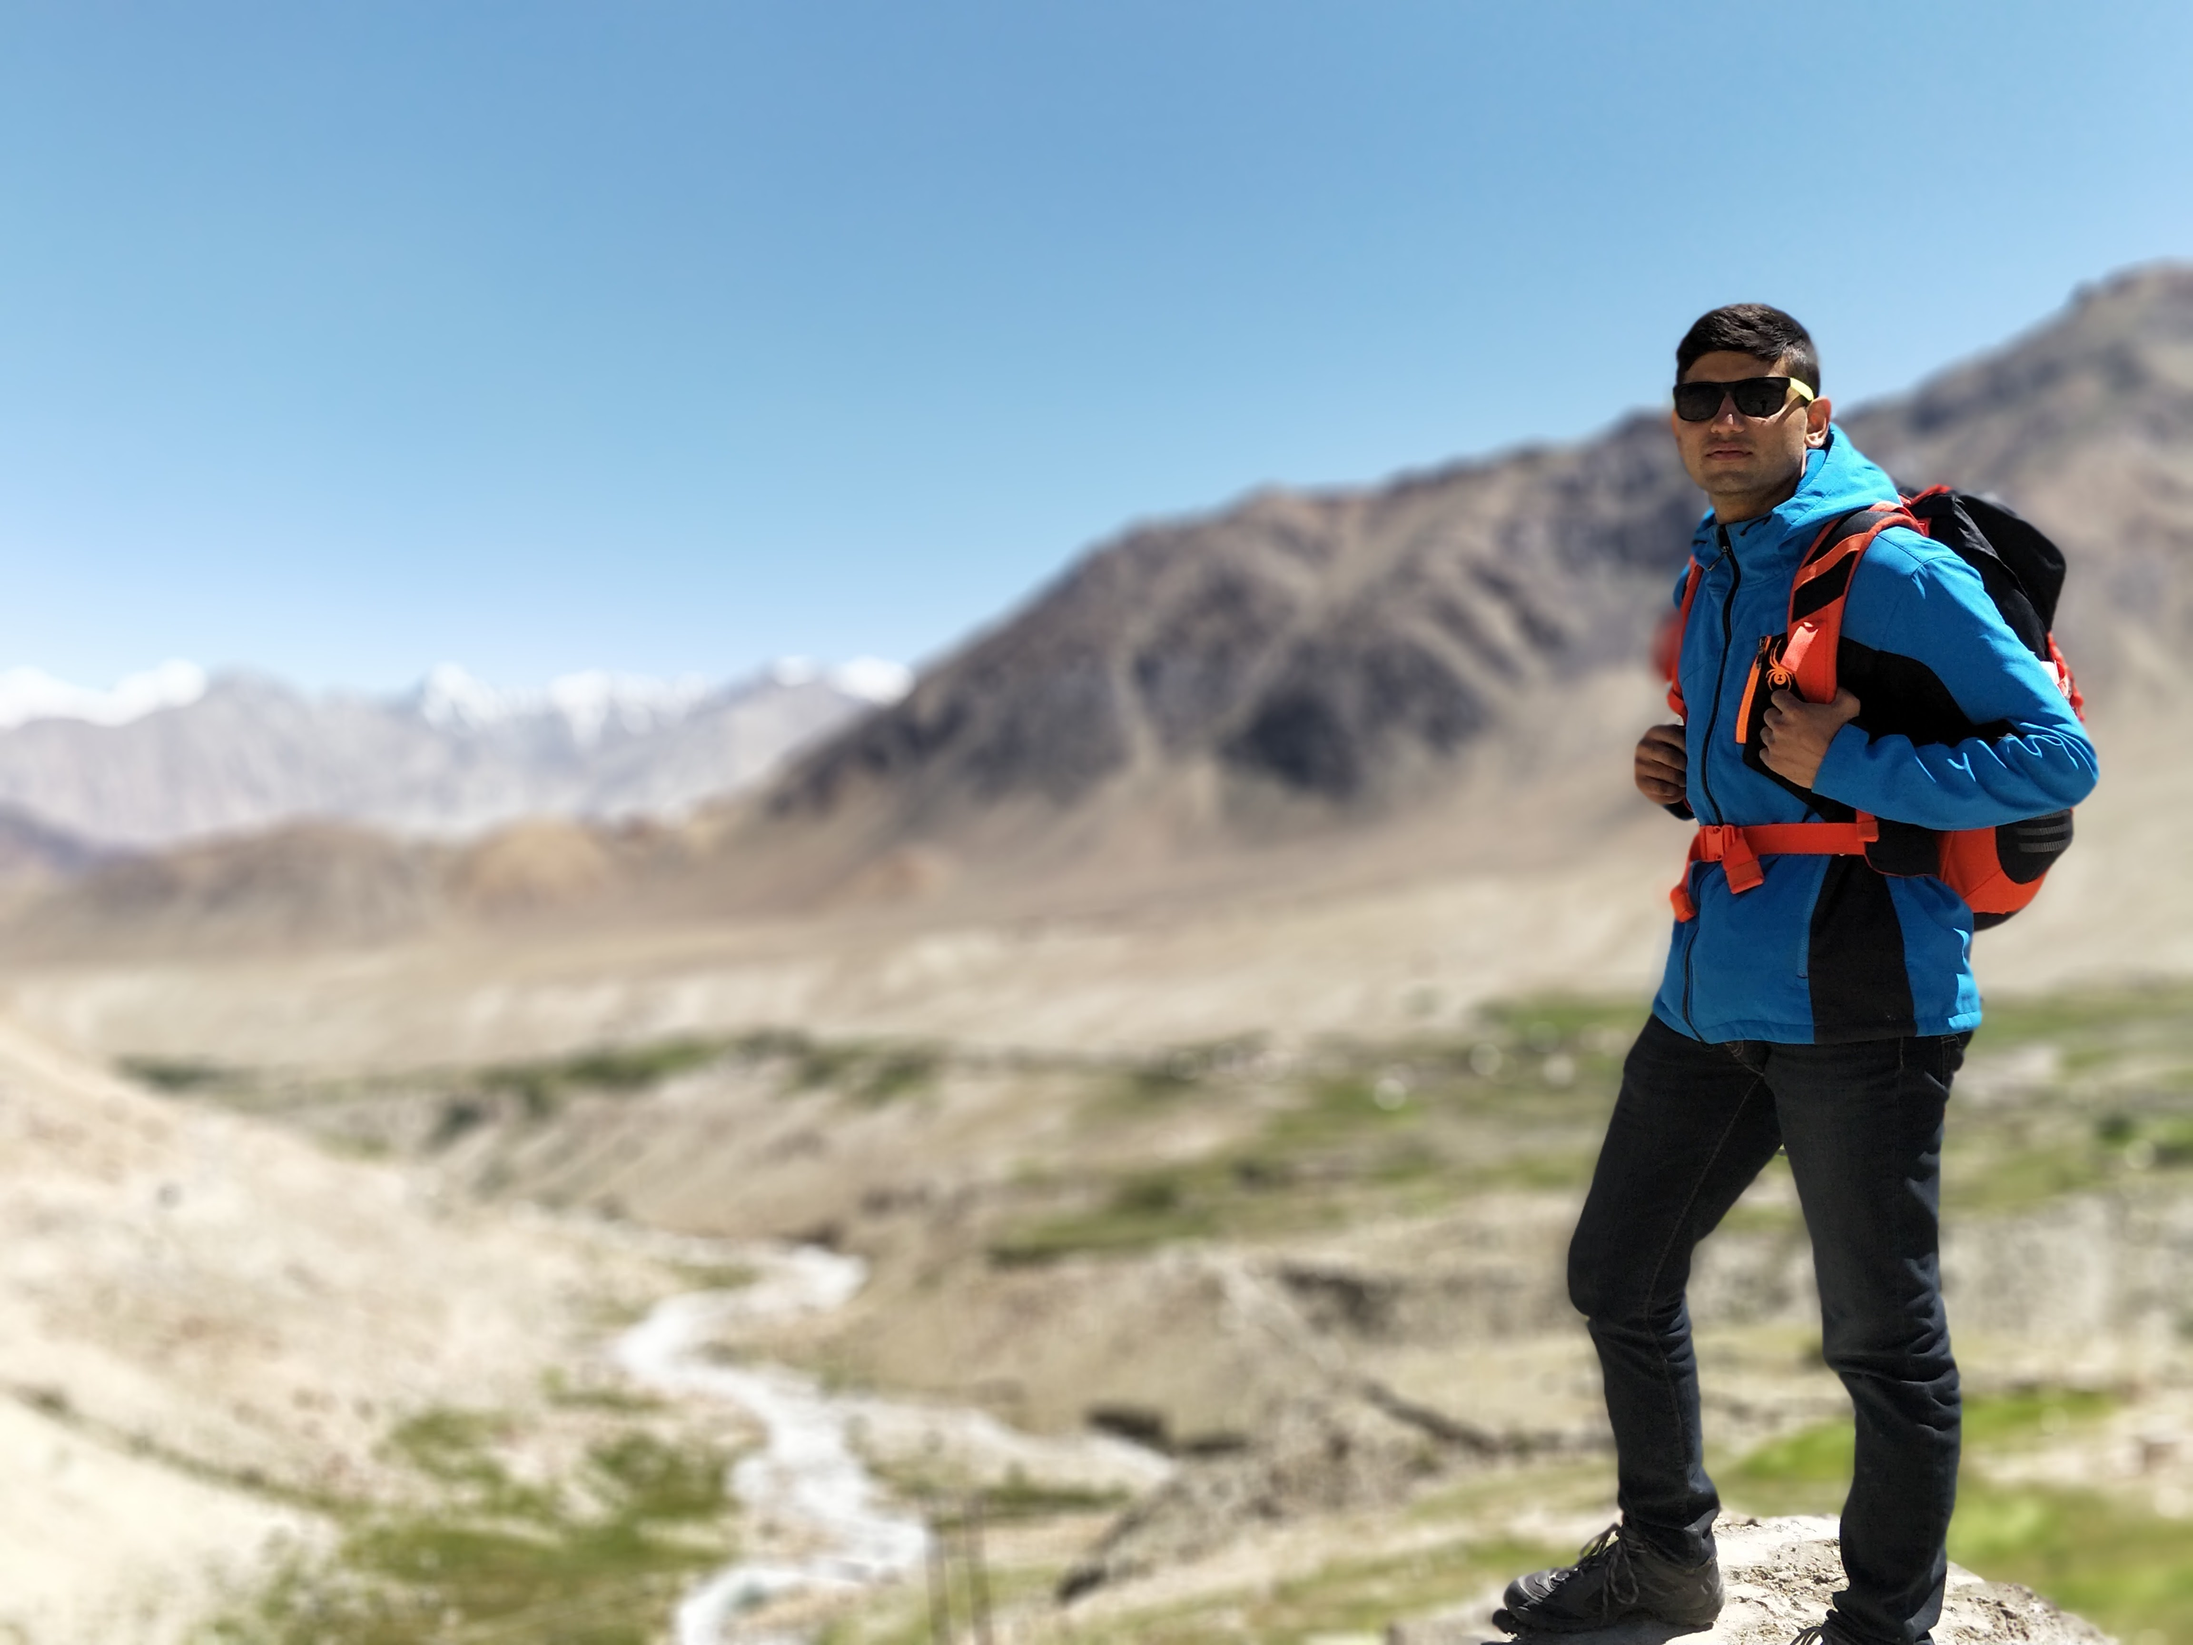
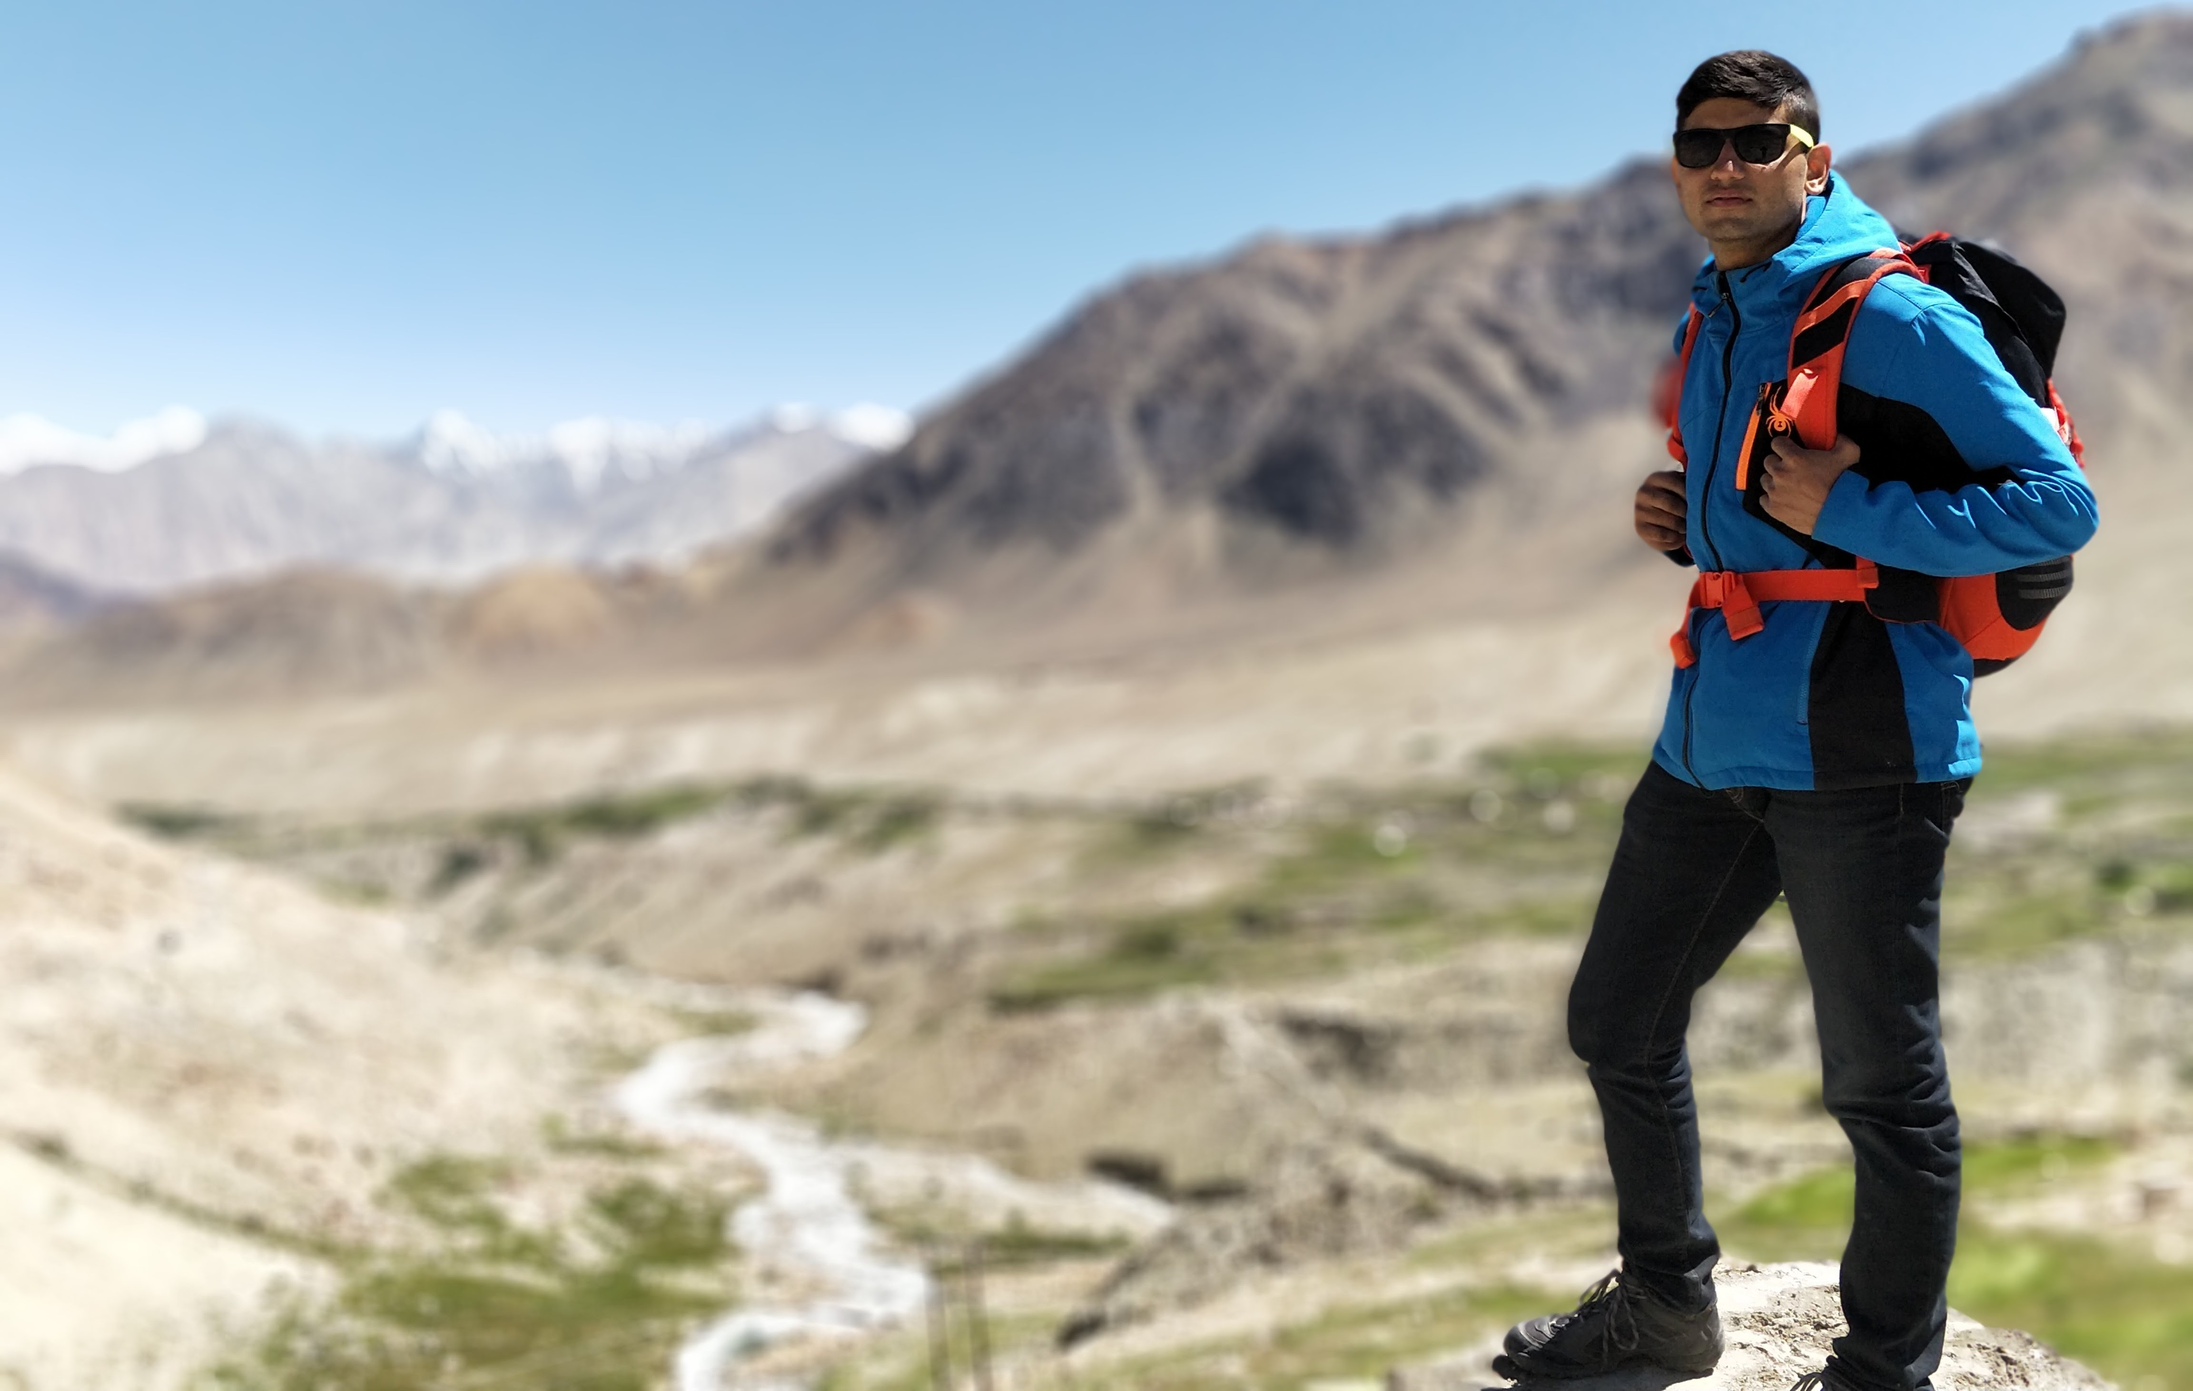
visual updates

diff --git a/index.html b/index.html
@@ -52,7 +52,7 @@
 
     <div id="lead">
         <div id="lead-content">
-            <h2>KARAN VOMBATKERE</h2>
+            <h2>Karan Vombatkere</h2>
             <h3>PhD Candidate in Computer Science | Boston University</h3>
             <a href="assets/Vombatkere_CV.pdf" class="btn-rounded-white" target="_blank"><i class="fa fa-graduation-cap" aria-hidden="true"></i> View CV</a>
             <a href="https://github.com/kvombatkere/" class="btn-rounded-white" target="_blank"><i class="fa fa-github" aria-hidden="true"></i> GitHub</a>

diff --git a/css/styles.css b/css/styles.css
@@ -262,13 +262,13 @@ footer {
 
 #lead {
     position: relative;
-    height: 100vh;
-    min-height: 500px;
-    max-height: 1080px;
+    height: 250vh;
+    min-height: 50px;
+    max-height: 500px;
     background: url(../images/lead-bg.jpg);
     background-size: cover;
     padding: 15px;
-    overflow: hidden
+    overflow: clip
 }
 
 #lead-content {
